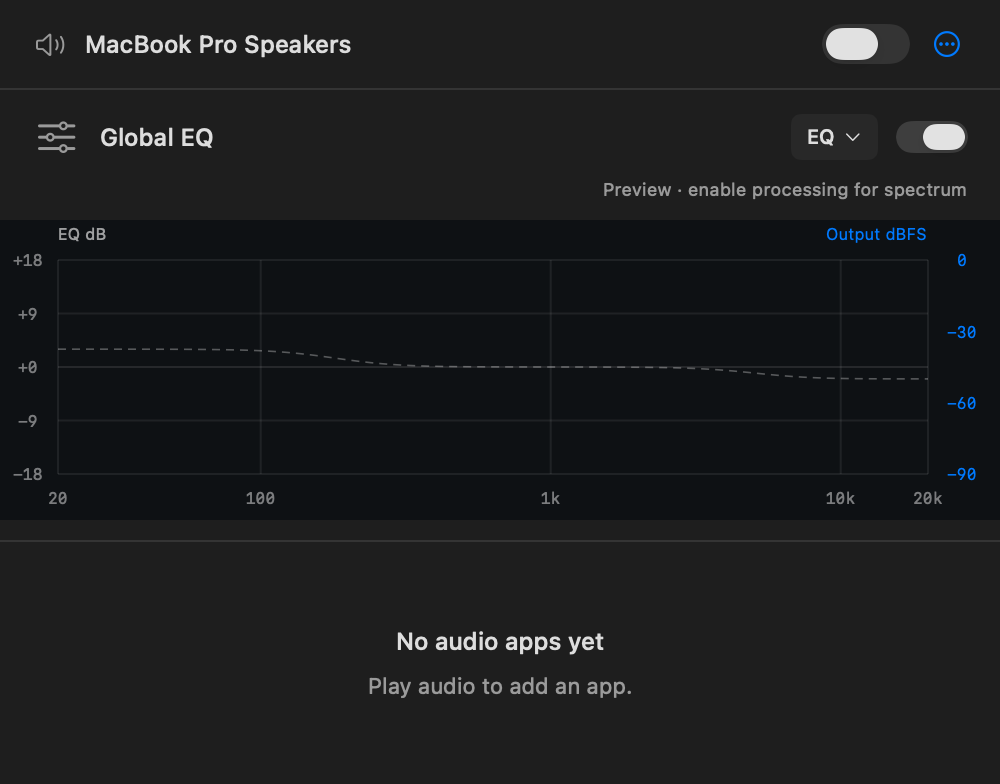
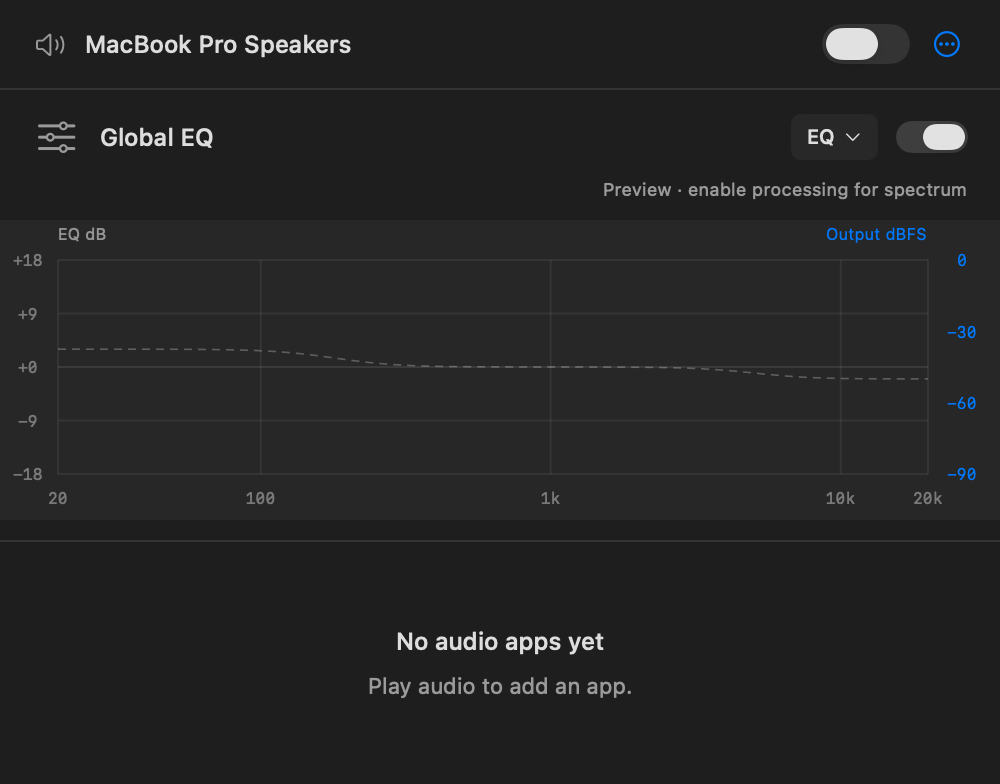
Expose native popover translucency and adapt EQ surfaces to appearance

diff --git a/QEQ/App/Sources/ParametricEQView.swift b/QEQ/App/Sources/ParametricEQView.swift
@@ -196,7 +196,7 @@ struct ParametricEQView: View {
             let rect = CGRect(x: 29, y: 20, width: geometry.size.width - 65, height: geometry.size.height - 43)
             let upper = maxFrequency
             ZStack {
-                RoundedRectangle(cornerRadius: isGlobal ? 0 : 6).fill(Color(red: 0.055, green: 0.067, blue: 0.078))
+                RoundedRectangle(cornerRadius: isGlobal ? 0 : 6).fill(Color.primary.opacity(0.045))
                 Canvas { context, size in
                     func x(_ hz: Double) -> CGFloat { rect.minX + log(hz / 20) / log(upper / 20) * rect.width }
                     func y(_ db: Double) -> CGFloat { rect.midY - db / 36 * rect.height }
@@ -207,7 +207,7 @@ struct ParametricEQView: View {
                                 .foregroundStyle(Color.accentColor), at: CGPoint(x: rect.maxX + 17, y: levelY))
                     }
                     context.draw(
-                        Text("EQ dB").font(.system(size: 8)).foregroundStyle(.white.opacity(0.6)),
+                        Text("EQ dB").font(.system(size: 8)).foregroundStyle(.primary.opacity(0.6)),
                         at: CGPoint(x: rect.minX, y: 7), anchor: .leading)
                     context.draw(
                         Text("Output dBFS").font(.system(size: 8)).foregroundStyle(Color.accentColor),
@@ -217,20 +217,21 @@ struct ParametricEQView: View {
                         line.move(to: CGPoint(x: rect.minX, y: y(db)))
                         line.addLine(to: CGPoint(x: rect.maxX, y: y(db)))
                         context.stroke(
-                            line, with: .color(.white.opacity(db == 0 ? (isGlobal ? 0.1 : 0.25) : 0.07)), lineWidth: 1)
+                            line, with: .color(.primary.opacity(db == 0 ? (isGlobal ? 0.1 : 0.25) : 0.07)), lineWidth: 1
+                        )
                         context.draw(
                             Text(String(format: "%+.0f", db)).font(.system(size: 8, design: .monospaced))
-                                .foregroundStyle(.white.opacity(0.45)), at: CGPoint(x: 14, y: y(db)))
+                                .foregroundStyle(.primary.opacity(0.45)), at: CGPoint(x: 14, y: y(db)))
                     }
                     for hz in [20.0, 100, 1000, 10000, 20000] where hz <= upper {
                         var line = Path()
                         line.move(to: CGPoint(x: x(hz), y: rect.minY))
                         line.addLine(to: CGPoint(x: x(hz), y: rect.maxY))
-                        context.stroke(line, with: .color(.white.opacity(0.07)), lineWidth: 1)
+                        context.stroke(line, with: .color(.primary.opacity(0.07)), lineWidth: 1)
                         let label = hz >= 1000 ? "\(Int(hz / 1000))k" : "\(Int(hz))"
                         context.draw(
                             Text(label).font(.system(size: 8, design: .monospaced)).foregroundStyle(
-                                .white.opacity(0.45)), at: CGPoint(x: x(hz), y: rect.maxY + 12))
+                                .primary.opacity(0.45)), at: CGPoint(x: x(hz), y: rect.maxY + 12))
                     }
                     if processing, !telemetry.spectrum.isEmpty {
                         let spectrum = telemetry.spectrum
@@ -268,7 +269,7 @@ struct ParametricEQView: View {
                         if index == 0 { curve.move(to: point) } else { curve.addLine(to: point) }
                     }
                     context.stroke(
-                        curve, with: .color(.white.opacity(isGlobal ? 0.3 : (processing ? 0.9 : 0.6))),
+                        curve, with: .color(.primary.opacity(isGlobal ? 0.3 : (processing ? 0.9 : 0.6))),
                         style: StrokeStyle(lineWidth: isGlobal ? 0.8 : 1.6, dash: processing ? [] : [4, 3]))
                 }
                 if !compact || overviewHandles {
@@ -279,7 +280,9 @@ struct ParametricEQView: View {
                         Text("\(index + 1)").font(.system(size: 9, weight: .bold)).foregroundStyle(.black)
                             .frame(width: selected == index ? 21 : 17, height: selected == index ? 21 : 17)
                             .background(b.enabled ? colors[index] : .gray, in: Circle())
-                            .overlay(Circle().strokeBorder(.white.opacity(selected == index ? 0.8 : 0), lineWidth: 1.5))
+                            .overlay(
+                                Circle().strokeBorder(.primary.opacity(selected == index ? 0.8 : 0), lineWidth: 1.5)
+                            )
                             .contentShape(Circle().size(width: 28, height: 28))
                             .position(x: x, y: y)
                             .gesture(

diff --git a/QEQ/App/Sources/ScreenshotRenderer.swift b/QEQ/App/Sources/ScreenshotRenderer.swift
@@ -13,13 +13,19 @@ struct ScreenshotRenderer {
         let model = MixerModel(preview: true)
         model.snapshot.outputName = "MacBook Pro Speakers"
         model.snapshot.timing = "256 frames · 5.3 ms I/O buffer · 48 kHz"
+        // A view-only bitmap has no window-server backdrop. Supply an opaque
+        // appearance-matched backing for documentation captures; the live app
+        // leaves this clear and uses NSPopover's native visual-effect material.
         let host = NSHostingController(
-            rootView: MixerView(model: model).environment(\.controlActiveState, .active).id("empty"))
+            rootView: MixerView(model: model).background(Color(nsColor: .windowBackgroundColor)).environment(
+                \.controlActiveState, .active
+            ).id("empty"))
         host.sizingOptions = [.preferredContentSize]
         let window = NSWindow(
             contentRect: NSRect(x: -8000, y: 0, width: 500, height: 240),
             styleMask: .borderless, backing: .buffered, defer: false)
-        window.appearance = NSAppearance(named: .darkAqua)
+        let lightAppearance = ProcessInfo.processInfo.environment["QEQ_SCREENSHOT_APPEARANCE"] == "light"
+        window.appearance = NSAppearance(named: lightAppearance ? .aqua : .darkAqua)
         window.contentViewController = host
         window.makeKeyAndOrderFront(nil)
         defer { window.orderOut(nil) }
@@ -108,17 +114,23 @@ struct ScreenshotRenderer {
             model.telemetry = combined
         }
         simulateSpectra()
-        host.rootView = MixerView(model: model).environment(\.controlActiveState, .active).id("mixer")
+        host.rootView = MixerView(model: model).background(Color(nsColor: .windowBackgroundColor)).environment(
+            \.controlActiveState, .active
+        ).id("mixer")
         try capture("mixer", maximum: MixerModel.panelHeightLimit)
         model.snapshot.apps = [zoom]
         model.selectedEQ = zoom.id
         simulateSpectra()
-        host.rootView = MixerView(model: model).environment(\.controlActiveState, .active).id("equalizer")
+        host.rootView = MixerView(model: model).background(Color(nsColor: .windowBackgroundColor)).environment(
+            \.controlActiveState, .active
+        ).id("equalizer")
         try capture("equalizer", maximum: MixerModel.panelHeightLimit)
         model.globalEQ.bands = EQPreset.warm.bands
         model.selectedEQ = MixerModel.globalEQID
         simulateSpectra()
-        host.rootView = MixerView(model: model).environment(\.controlActiveState, .active).id("global-equalizer")
+        host.rootView = MixerView(model: model).background(Color(nsColor: .windowBackgroundColor)).environment(
+            \.controlActiveState, .active
+        ).id("global-equalizer")
         try capture("global-equalizer", maximum: MixerModel.panelHeightLimit)
         model.snapshot.apps = (0..<15).map {
             AudioApplication(id: "sample-\($0)", name: "Sample app \($0 + 1)", playing: true)

diff --git a/QEQ/App/Sources/MixerView.swift b/QEQ/App/Sources/MixerView.swift
@@ -80,7 +80,9 @@ struct MixerView: View {
             }.frame(maxHeight: .infinity)
 
         }.frame(width: 500, height: panelHeight, alignment: .top).clipped().tint(.accentColor)
-            .background(Color(nsColor: .windowBackgroundColor))
+            // NSPopover already supplies the system visual-effect background.
+            // Keep the hosting content clear so that material stays visible.
+            .background(Color.clear)
             .onPreferenceChange(PanelHeights.self) { heights in
                 guard measured != heights else { return }
                 // Geometry feeds the viewport size: never interpolate these
@@ -211,7 +213,7 @@ struct MixerView: View {
                     .modifier(EQContentReveal())
             }
         }.padding(11).background(
-            Color(nsColor: .controlBackgroundColor).opacity(0.65), in: RoundedRectangle(cornerRadius: 8)
+            Color.primary.opacity(0.035), in: RoundedRectangle(cornerRadius: 8)
         )
         .overlay(RoundedRectangle(cornerRadius: 8).strokeBorder(.primary.opacity(0.06)))
     }

diff --git a/docs/DEVELOPMENT.md b/docs/DEVELOPMENT.md
@@ -20,6 +20,8 @@ Only `NSAudioCaptureUsageDescription` is declared. macOS calls this **system aud
 
 Permission is first requested when processing or live spectrum needs an app audio tap, not at launch. If access is denied, allow QEQ in **System Settings → Privacy & Security → Screen & System Audio Recording** (the exact panel label varies by macOS), then retry or relaunch. The local build is ad-hoc signed with the stable development identifier `local.AppMixer`; it is not notarized for distribution. macOS may request permission again after a rebuild.
 
+The popup uses AppKit’s popover material for system backdrop blur and the Reduce Transparency fallback. App cards and plots use subtle translucent fills; graph labels and response curves adapt to light and dark appearances.
+
 ## Latency and scope
 
 - One device-scoped tap and private aggregate per playing app that needs processing or a visible spectrum. App and global EQ use two five-band filter banks in the same callback, before volume and sample-peak protection. The output device is the clock source; input is processed directly into output within the same Core Audio IOProc.
@@ -28,7 +30,7 @@ Permission is first requested when processing or live spectrum needs an app audi
 - Diagnostics report the hardware **I/O buffer duration**, not measured end-to-end latency. True zero latency is impossible. Bluetooth, device drivers, and Core Audio add their own delay. Use built-in speakers or wired headphones for latency testing.
 - Mono/stereo Float32 output devices with a single output stream are supported. Multichannel/multistream devices are rejected explicitly. This version processes the **current system output**; apps explicitly routed to a different output should be set to the system output first.
 - EQ: five configurable bands, 20 Hz–20 kHz (limited to 45% of sample rate), ±18 dB. Bell, low/high shelf, and 12 dB/octave low/high cut filters. Bell/cut Q spans 0.1–10; shelf slope spans 0.1–1. Each band can be bypassed. Boosts raise their selected frequencies without fixed full-band attenuation. Stereo-linked sample-peak protection reduces gain only when output would exceed full scale, then releases over 50 ms; it adds no lookahead or playback buffering. The live “Limiting” indicator shows reduction. Lower app volume when more headroom is needed. This is sample-peak protection, not an oversampled true-peak limiter. Volume is 0–100%.
-- Drag numbered graph handles to change frequency/gain. Click a band, enter exact frequency/gain/Q values, or use the width slider. White is the filter response (EQ dB, before app volume and peak protection); a dashed line indicates a preview while bypassed. The system accent color fills the live processed-output spectrum (−90…0 dBFS). Double-click a numbered handle to restore that band’s defaults.
+- Drag numbered graph handles to change frequency/gain. Click a band, enter exact frequency/gain/Q values, or use the width slider. The neutral line is the filter response (EQ dB, before app volume and peak protection); a dashed line indicates a preview while bypassed. The system accent color fills the live processed-output spectrum (−90…0 dBFS). Double-click a numbered handle to restore that band’s defaults.
 - Global EQ spans the popup width with its expanded controls attached beneath the graph, above the scrolling app list. Only its visualizer collapses while an app's EQ is expanded; the global header, bypass switch, and EQ button remain available. The visualizer returns when the app editor closes, and global processing stays active throughout. EQ layout updates without geometry animation: the app list fills the remaining space inside a bounded popup, while incoming content slides down 24 points and fades in inside clipped bounds, and chevrons rotate. Reduce Motion disables those decorative animations. The popup fits its content up to 1,000 points or the available screen height; search is omitted to leave more room for apps. Its response line is subdued. Collapsed app rows show live output-peak meters (−60…0 dBFS), after volume, mute, and both EQs. Global bypass releases the taps, so meters show unavailable rather than fabricated activity.
 - The minimum band gain is −18 dB, not silence: it leaves about 13% amplitude in the affected range. A logarithmic spectrum still shows that remaining energy; the Gain tooltip explains this amplitude relationship.
 - The optional 16,384-sample Hann-window spectrum uses Accelerate off the audio thread at ~15 fps. Atomic snapshots never delay playback. At 48 kHz the analysis window covers about 341 ms of recent sound; this affects visual settling, not playback latency. Frequency bins use interpolated boundaries, and there is no extra peak hold to conceal EQ cuts or mute. Both the EQ-gain (left) and output-dBFS (right) scales are labeled; the frequency axis is logarithmic. Stereo powers are combined without phase cancellation. While the popup is open and the main mixer is enabled, playing apps acquire neutral routes as needed for analysis, even with flat EQ. Closing it releases analysis-only routes. The Global EQ graph overlays up to six app spectra with matching labels. Each trace uses a cached dominant icon hue keyed by app identity, or a deterministic fallback for monochrome/missing icons, so playback and list changes do not reassign colors; its filled envelope is the strongest app in each frequency bin, not a phase-aligned measurement of the final mixed output. Per-app spectra include both app and global processing. Global bypass always releases all routes.
@@ -124,3 +126,5 @@ The screenshot command renders the real SwiftUI views with labeled fixture setti
 The icon was created with the built-in image-generation tool. The source asset and final prompt are in `QEQ/Branding/`. The generator script only creates the standard macOS icon sizes from that source. The package, modules, targets, and scripts use QEQ. The legacy `local.AppMixer` bundle identity is retained so existing settings and permission identity remain available. The menu bar uses a native template drawing of the three staggered slider rails and knobs, without the app icon’s panels or outer border.
 
 Native screenshot rendering is also checked in CI before tagging. It reads fixture app icons directly from bundles to avoid headless IconServices stalls. A 90-second timeout retains a process sample on failure. RC.4 was tagged but not published after exposing that runner issue; RC.5 includes the fix.
+
+For light-appearance screenshot QA, run `QEQ_SCREENSHOT_APPEARANCE=light python3 QEQ/scripts/screenshots.py --skip-build --output /tmp/qeq-light-screenshots`. The default README captures use dark appearance. Offscreen captures validate layout and colors; desktop backdrop blur is visible in the live popover.

diff --git a/CHANGELOG.md b/CHANGELOG.md
@@ -2,6 +2,8 @@
 
 ## Unreleased
 
+- Use the native translucent popover material throughout, with subtle app/graph surfaces and appearance-aware EQ labels and curves.
+
 - Remove redundant meter, global-scope, normal-processing, and graph labels; keep units and actionable states, and move the cut/amplitude explanation into the Gain tooltip.
 
 - Use a monochrome slider mark matching the app icon in the menu bar; hide the options-menu caret.
